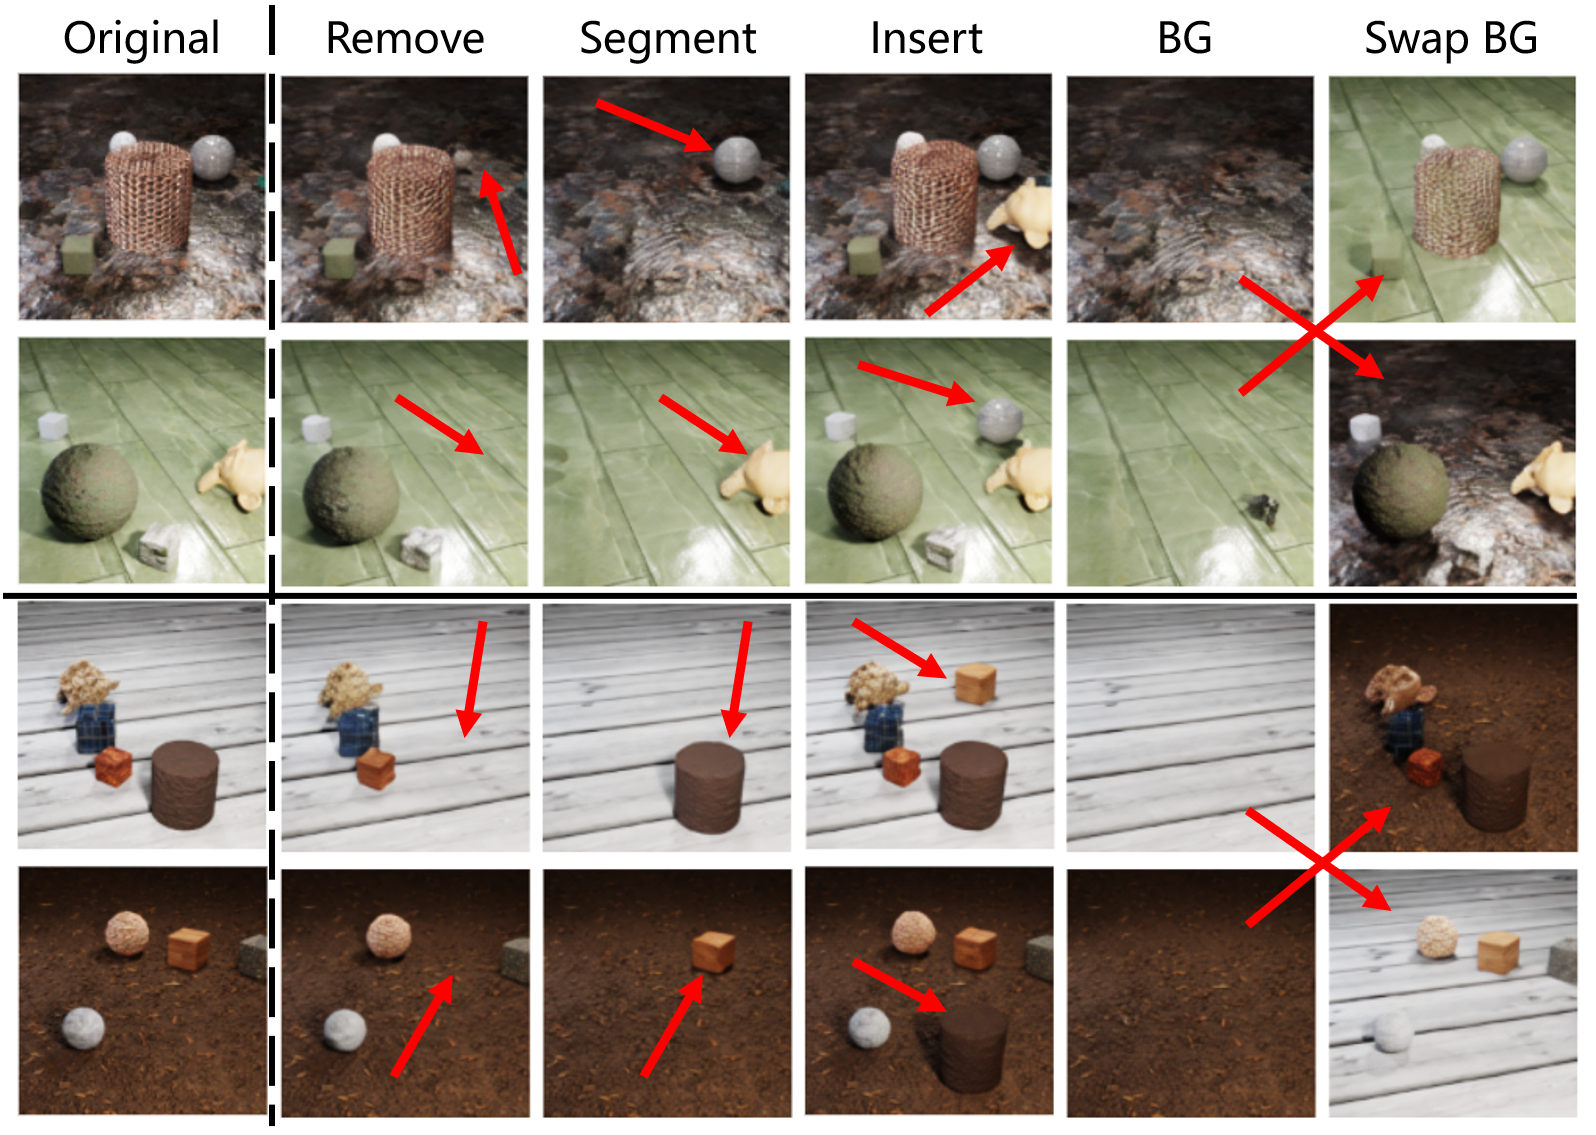
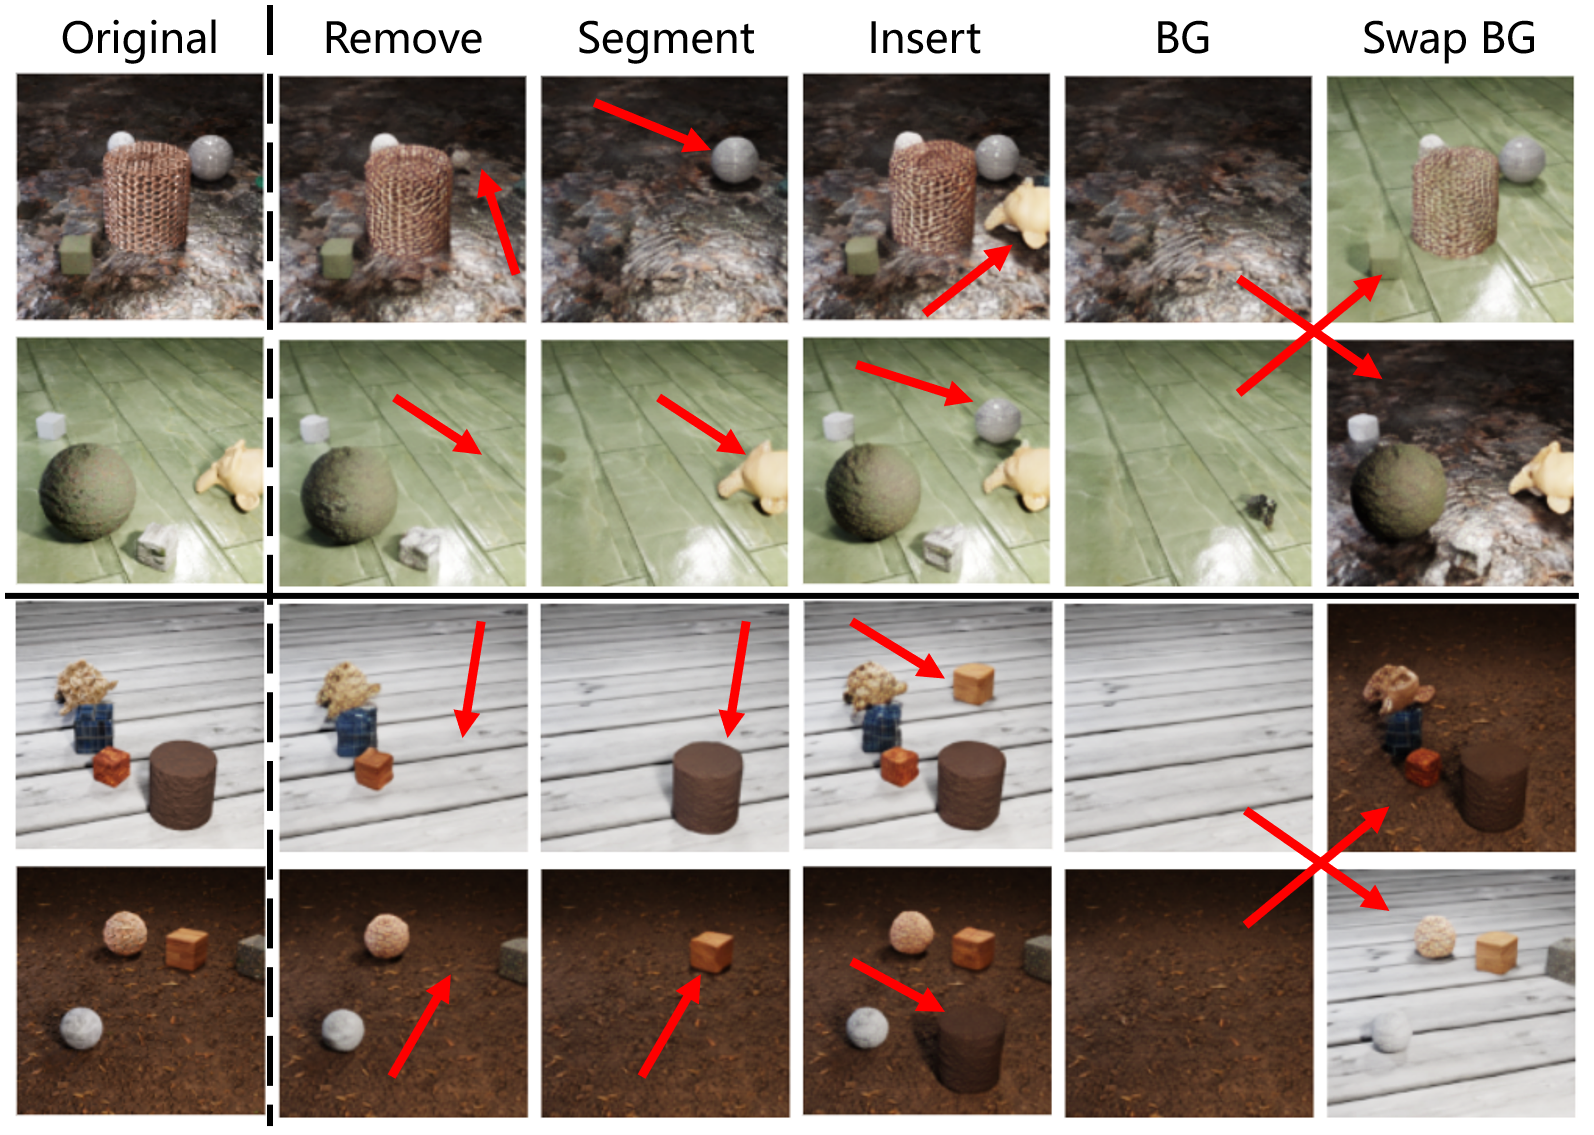
Add illustration on compositional generation

diff --git a/index.html b/index.html
@@ -313,7 +313,17 @@
             <p>
                 After building a visual concept library (see paper Section 3.3),
                 we are able to generate novel samples by randomly composing
-                different concept slots. Compared to baselines, SlotDiffusion
+                different concept slots.
+            </p>
+            <p align="center">
+                <img
+                    border="0"
+                    src="src/gen/CLEVRTex-CelebA-compose-mechanism.png"
+                    style="width: 100%"
+                />
+            </p>
+            <p>
+                We show more results below. Compared to baselines, SlotDiffusion
                 generates results closer to the original datasets.
             </p>
             <p align="center">
@@ -363,11 +373,11 @@
             <hr />
             <p>
                 We now show how SlotDiffusion's better slot decoder can help
-                downstream video prediction and VQA task. We train an
-                object-centric dynamics model
-                <a href="https://slotformer.github.io/">SlotFormer</a> (SF) over
-                learned slots, and perform future rollout. Our method simulates
-                both correct object dynamics and better visual quality. We also
+                downstream video prediction and VQA tasks. We train an
+                object-centric dynamics model SlotFormer (SF for short) [7] over
+                learned slots, and perform future rollout. Then, we reason the
+                predicted future to answer questions. Our method simulates both
+                correct object dynamics and better visual quality. We also
                 achieve SOTA VQA results on Physion (see paper Section 4.4).
             </p>
             <div align="center">
@@ -396,10 +406,10 @@
             <hr />
             <p>
                 Finally, we show that SlotDiffusion can scale up to real-world
-                datasets MS COCO and PASCAL VOC with the help of DINO
+                datasets MS COCO and PASCAL VOC with the help of DINO [14]
                 pre-trained image encoders. Our method not only segments major
                 objects, but also discovers unannotated yet semantically
-                meaningful regions, such as trees, keyboards.
+                meaningful regions, such as trees and keyboards.
             </p>
             <p align="center">
                 <img
